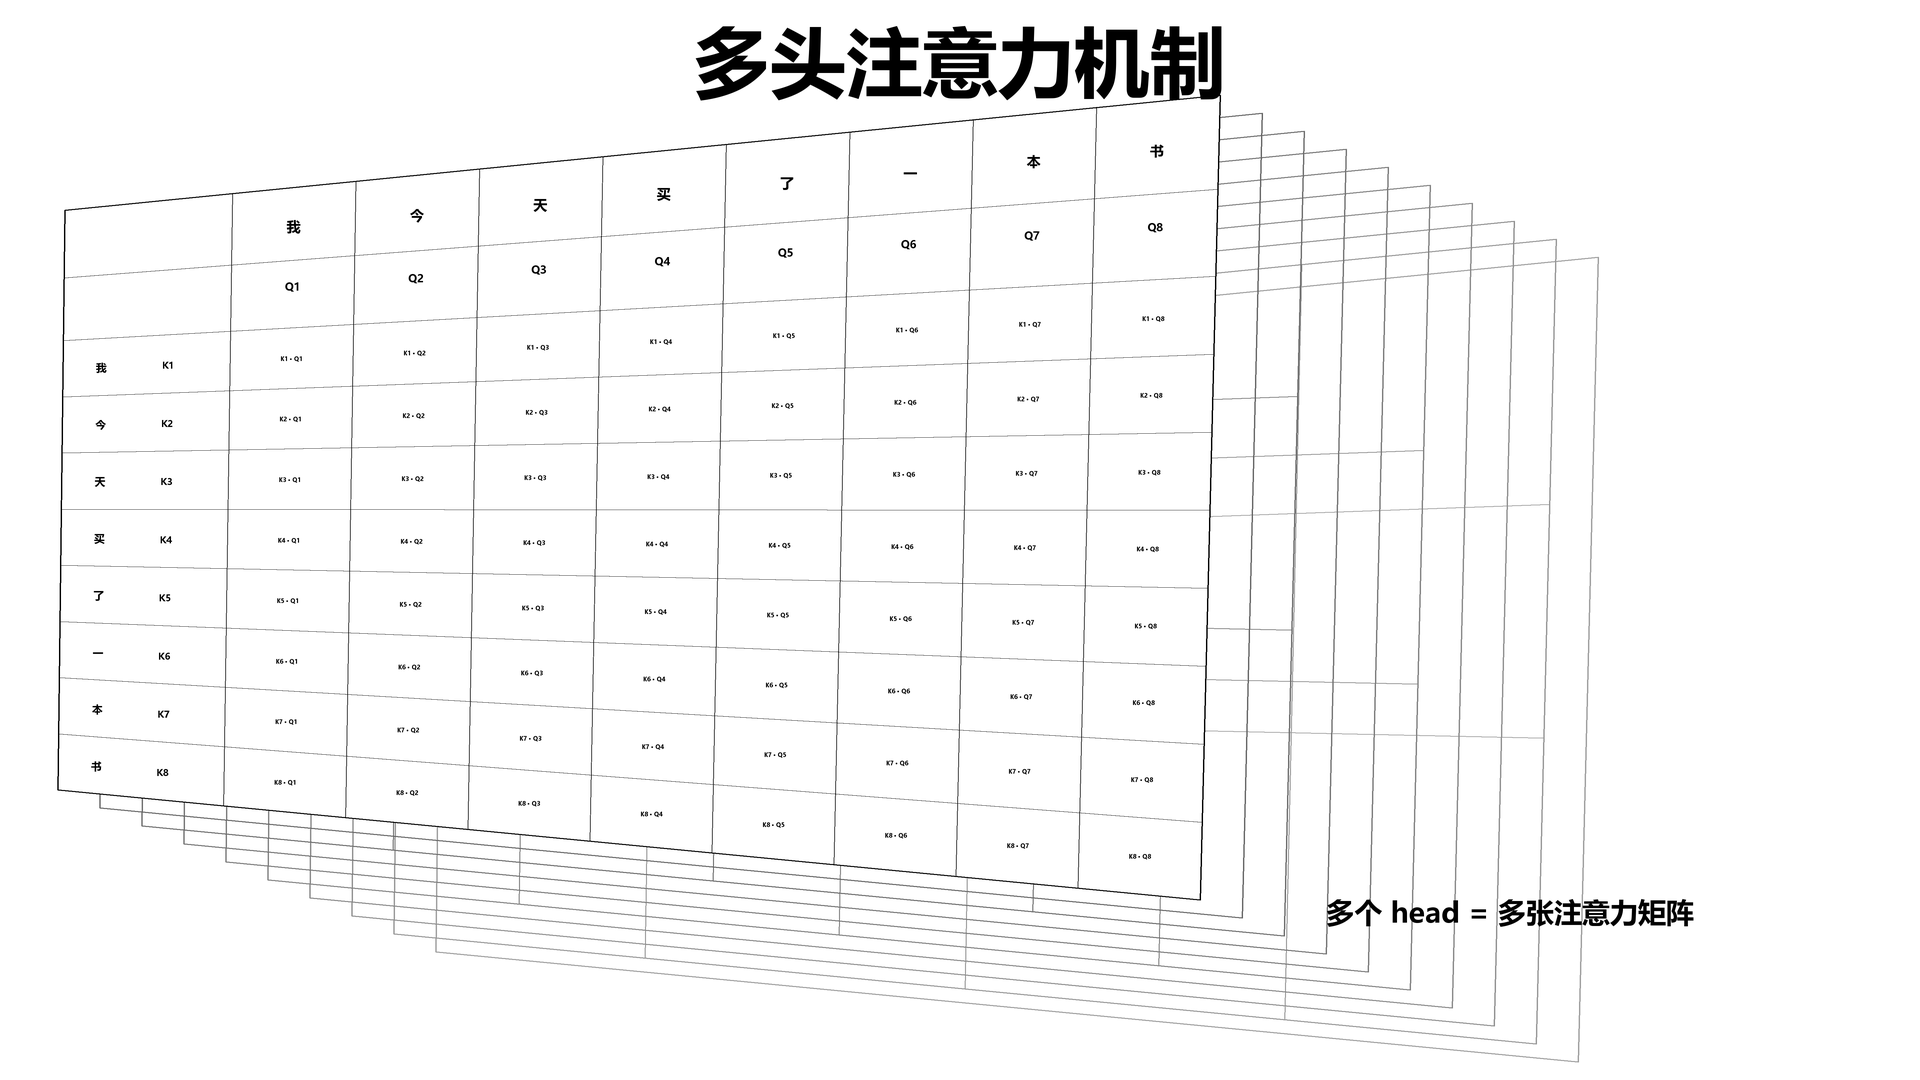
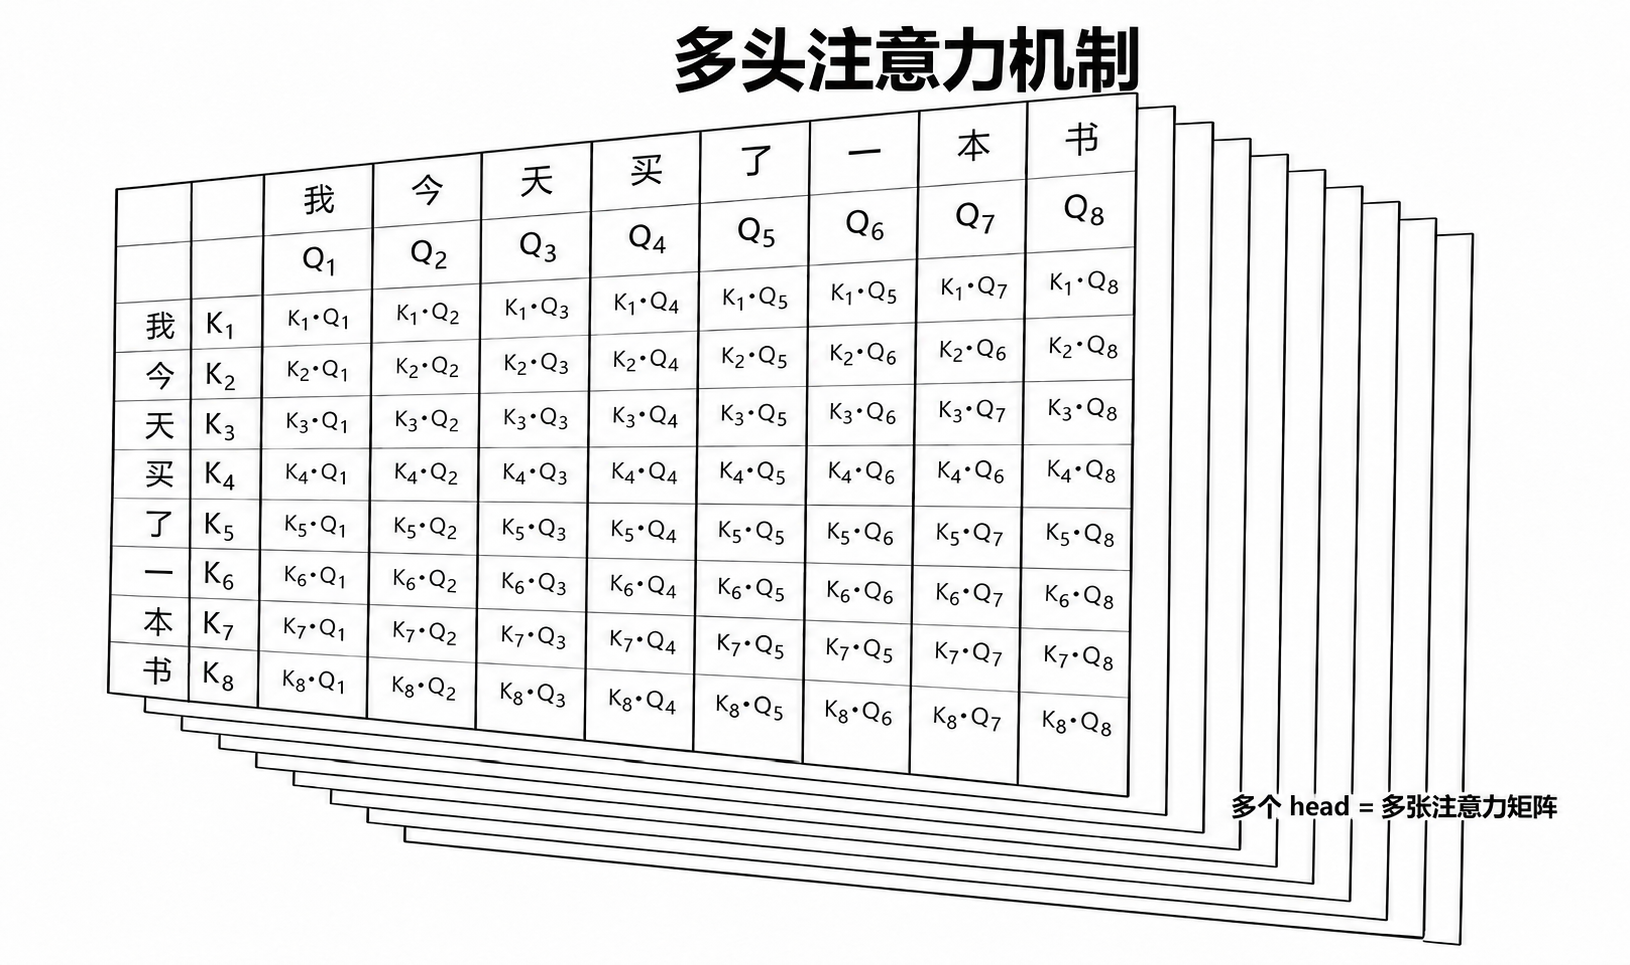
assets: replace multi-head matrix with selected readable image

Changed region(s): [[0.0307, 0.0, 0.9509, 0.9948]]

diff --git a/web/components/MultiHeadMatrix.tsx b/web/components/MultiHeadMatrix.tsx
@@ -1,6 +1,6 @@
 export function MultiHeadMatrix() {
   return <figure className="multi-head-figure">
-    <img src={`${import.meta.env.BASE_URL}images/multi-head-matrices.png`} alt="多张单头匹配矩阵叠在一起，示意多个注意力头各自计算一组关注关系" width="1920" height="1080" />
+    <img src={`${import.meta.env.BASE_URL}images/multi-head-matrices.png?v=20261107-readable`} alt="多张单头匹配矩阵叠在一起，示意多个注意力头各自计算一组关注关系" width="1630" height="965" />
     <figcaption>多个 head，对应多组注意力计算。各个头有不同的投影参数，可以产生不同的权重矩阵。图中列为 Query、行为 Key，是实验总结表格的转置画法；格子的匹配得分还需经过缩放与 Softmax 才成为权重。</figcaption>
   </figure>;
 }

diff --git a/docs/development/51-replace-multi-head-image.md b/docs/development/51-replace-multi-head-image.md
@@ -1,0 +1,7 @@
+# 第五十一次迭代：替换多头矩阵图片
+
+按用户要求，将多头注意力模块的矩阵图片替换为本轮对话最终生成、经用户指定使用的版本：常规字重、放大的表内文字、干净的叠层外框，以及汉字与 K 编号之间的新增竖线。
+
+生成图片按原始字节复制到 public/images/multi-head-matrices.png，网页同步使用实际宽高，图片地址增加版本参数，避免浏览器继续显示旧缓存。保留原有图片显示宽度及图下注释。
+
+通过生产构建、相关阅读浏览器验收和桌面/手机图片显示检查；发布后核对线上图片内容与指定源文件一致。

diff --git a/README.md b/README.md
@@ -302,3 +302,5 @@ Attention 背景导读、Transformer 中的位置及学习路线见[第九次迭
 计算模块顶部精简与上下分数排版见[第四十九次迭代记录](docs/development/49-calculation-fractions.md)。
 
 多头流程示意简化、缩放说明迁移与交叉注意力用语统一见[第五十次迭代记录](docs/development/50-multi-head-branches-and-cross-attention.md)。
+
+用户指定的多头矩阵图片替换见[第五十一次迭代记录](docs/development/51-replace-multi-head-image.md)。
